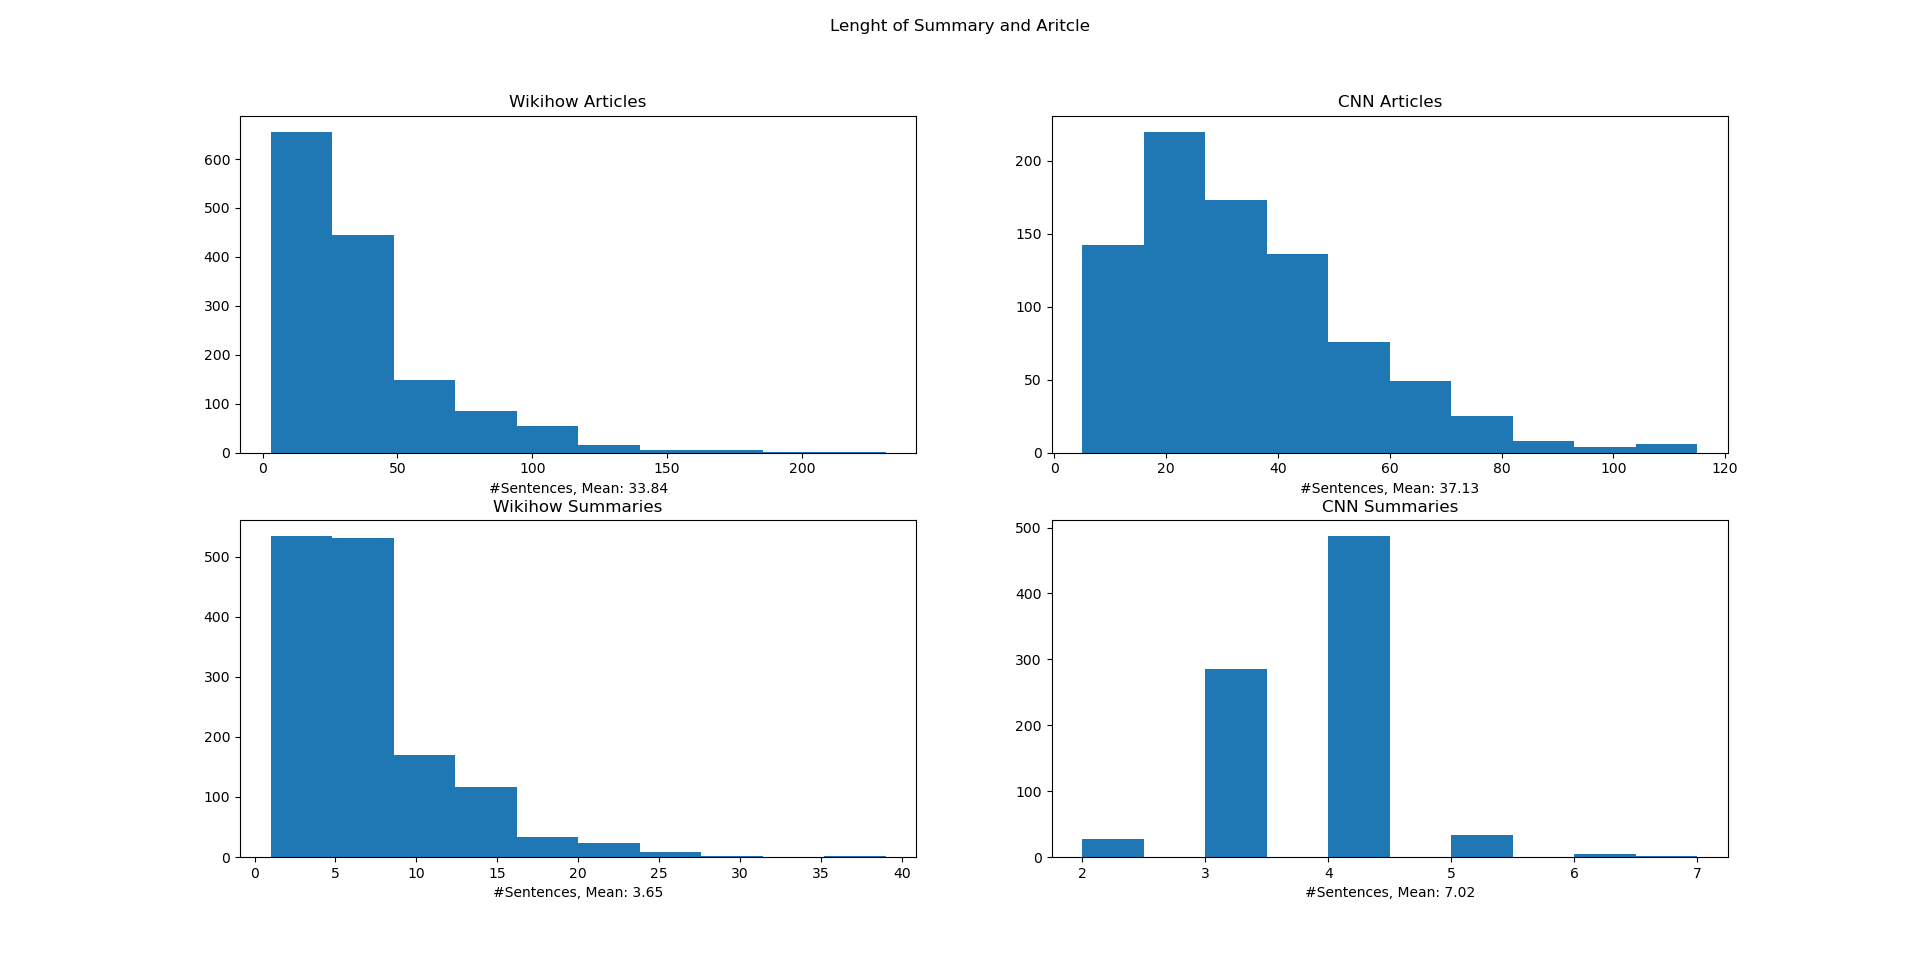
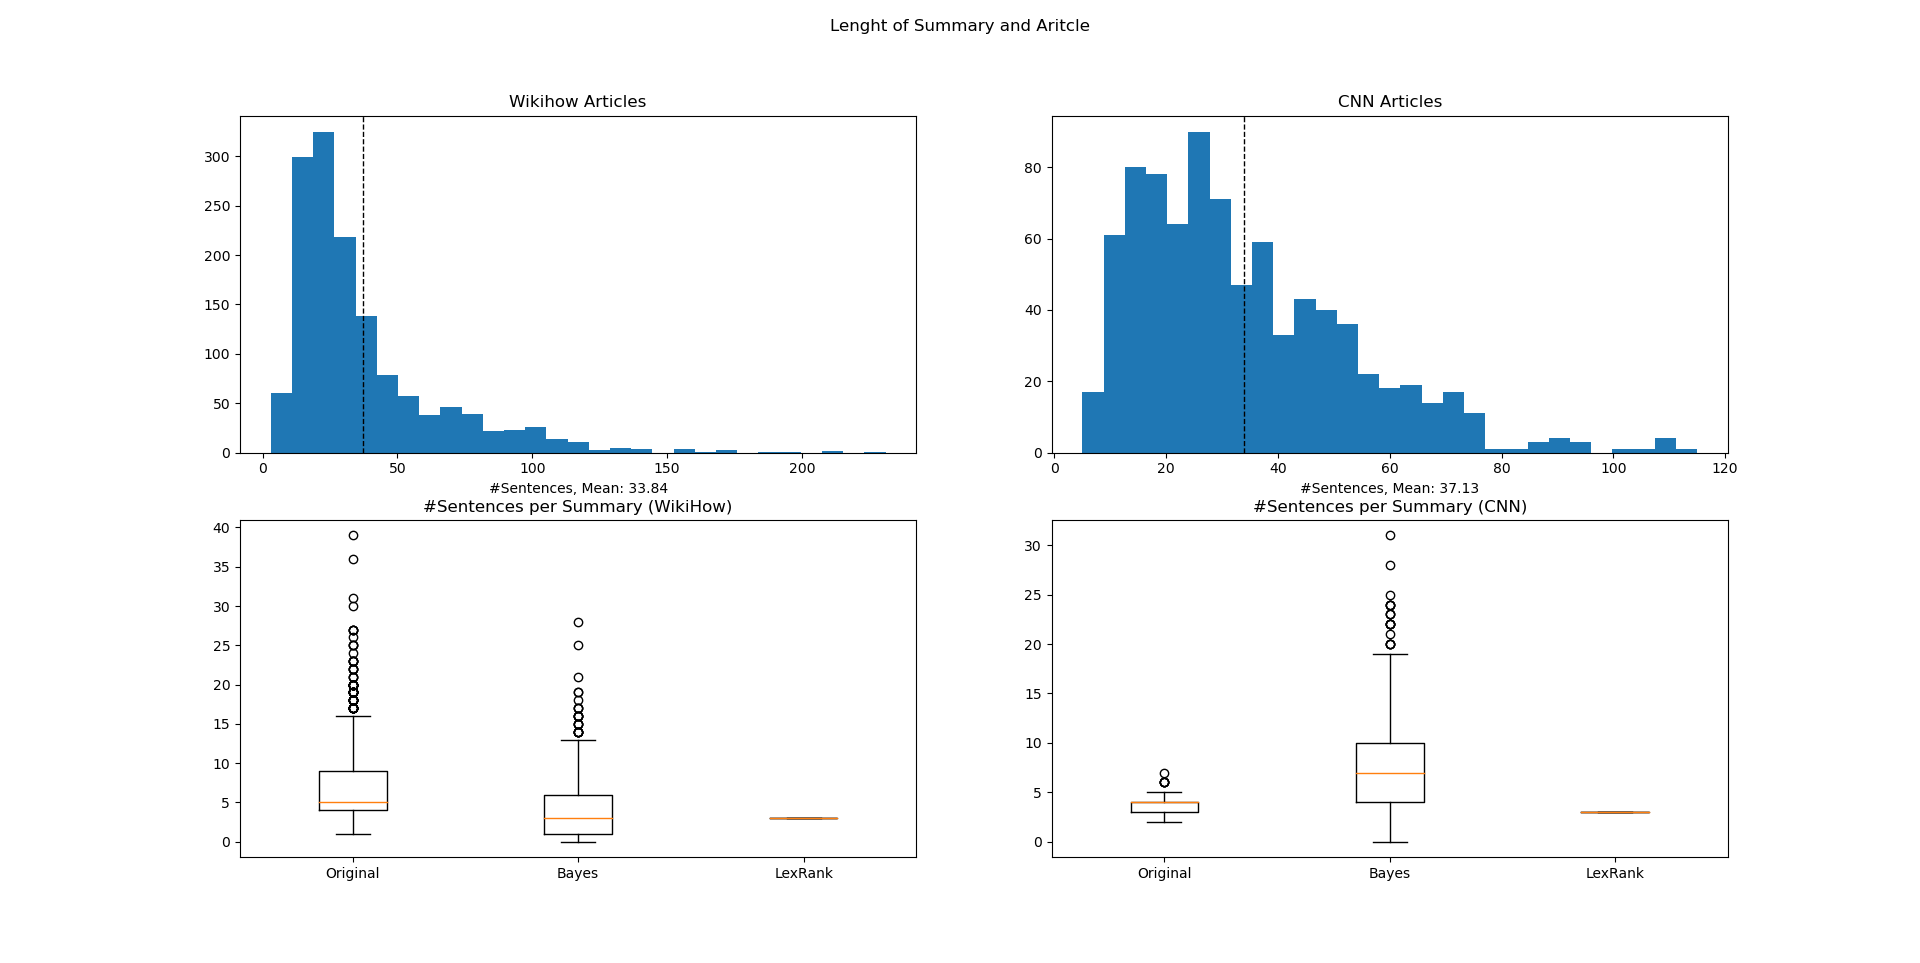
stats

diff --git a/Evaluation/descriptive_stats.py b/Evaluation/descriptive_stats.py
@@ -51,6 +51,15 @@ cnn_bayes_summary = pickle.load(open_cnn_bayes_summary)
 open_cnn_bayes_summary.close()
 
 
+open_wiki_lex_summary = open(Path.joinpath(rootpath, r"LexRank\wiki_TRoutput_summ_dict"), 'rb')
+wiki_lex_summary = pickle.load(open_wiki_lex_summary)
+open_wiki_lex_summary.close()
+
+open_cnn_lex_summary = open(Path.joinpath(rootpath, r"LexRank\cnn_TRoutput_summ_dict"), 'rb')
+cnn_lex_summary = pickle.load(open_cnn_lex_summary)
+open_cnn_lex_summary.close()
+
+
 
 def get_summ(dictionary):
     length = np.array([])
@@ -87,19 +96,22 @@ def get_bayes_summaries(summaries):
     return length
 
 
-def get_hist(ws, cs, wa, ca, wbs, cbs):
+def get_hist(ws, cs, wa, ca, wbs, cbs, wls, cls):
     fig, ax = plt.subplots(2, 2)
     fig.suptitle("Lenght of Summary and Aritcle")
-    ax[0,0].hist(wa)
+    ax[0,0].hist(wa, bins=np.linspace(wa.min(), wa.max(), 30))
+    ax[0,0].axvline(wa.mean(), color='k', linestyle='dashed', linewidth=1)
     ax[0,0].set_title("Wikihow Articles")
     ax[0,0].set_xlabel("#Sentences, Mean: 33.84")
-    ax[0,1].hist(ca)
+    ax[0,1].hist(ca, bins=np.linspace(ca.min(), ca.max(), 30))
+    ax[0,1].axvline(ca.mean(), color='k', linestyle='dashed', linewidth=1)
     ax[0,1].set_title("CNN Articles")
     ax[0,1].set_xlabel("#Sentences, Mean: 37.13")
-    ax[1,0].boxplot([ws, wbs])
-    ax[1,1].boxplot([cs, cbs])
+    ax[1,0].boxplot([ws, wbs, wls], labels=["Original", "Bayes", "LexRank"])
+    ax[1,0].set_title("#Sentences per Summary (WikiHow)")
+    ax[1,1].boxplot([cs, cbs, cls], labels=["Original", "Bayes", "LexRank"])
+    ax[1,1].set_title("#Sentences per Summary (CNN)")
     plt.show()
-
 
 
 wiki_summ_len = get_summ_wiki(wiki_summary)
@@ -108,13 +120,15 @@ wiki_art_len = get_summ_art(wiki_data)
 cnn_art_len = get_summ_art(cnn_data)
 wiki_bayes_summ_len = get_bayes_summaries(wiki_bayes_summary)
 cnn_bayes_summ_len = get_bayes_summaries(cnn_bayes_summary)
+wiki_lex_summ_len = get_summ(wiki_lex_summary)
+cnn_lex_summ_len = get_summ(cnn_lex_summary)
 cnn_min_sum, cnn_max_sum, cnn_mean_summ = cnn_summ_len.min(), cnn_summ_len.max(), cnn_summ_len.mean()
 wiki_min_sum, wiki_max_sum, wiki_mean_summ = wiki_summ_len.min(), wiki_summ_len.max(), wiki_summ_len.mean()
 cnn_min, cnn_max, cnn_mean = cnn_art_len.min(), cnn_art_len.max(), cnn_art_len.mean()
 wiki_min, wiki_max, wiki_mean = wiki_art_len.min(), wiki_art_len.max(), wiki_art_len.mean()
 
 
-get_hist(wiki_summ_len, cnn_summ_len, wiki_art_len, cnn_art_len, wiki_bayes_summ_len, cnn_bayes_summ_len)
+get_hist(wiki_summ_len, cnn_summ_len, wiki_art_len, cnn_art_len, wiki_bayes_summ_len, cnn_bayes_summ_len, wiki_lex_summ_len, cnn_lex_summ_len)
 print(cnn_min_sum, cnn_max_sum, cnn_mean_summ)
 print(wiki_min_sum, wiki_max_sum, wiki_mean_summ)
 
